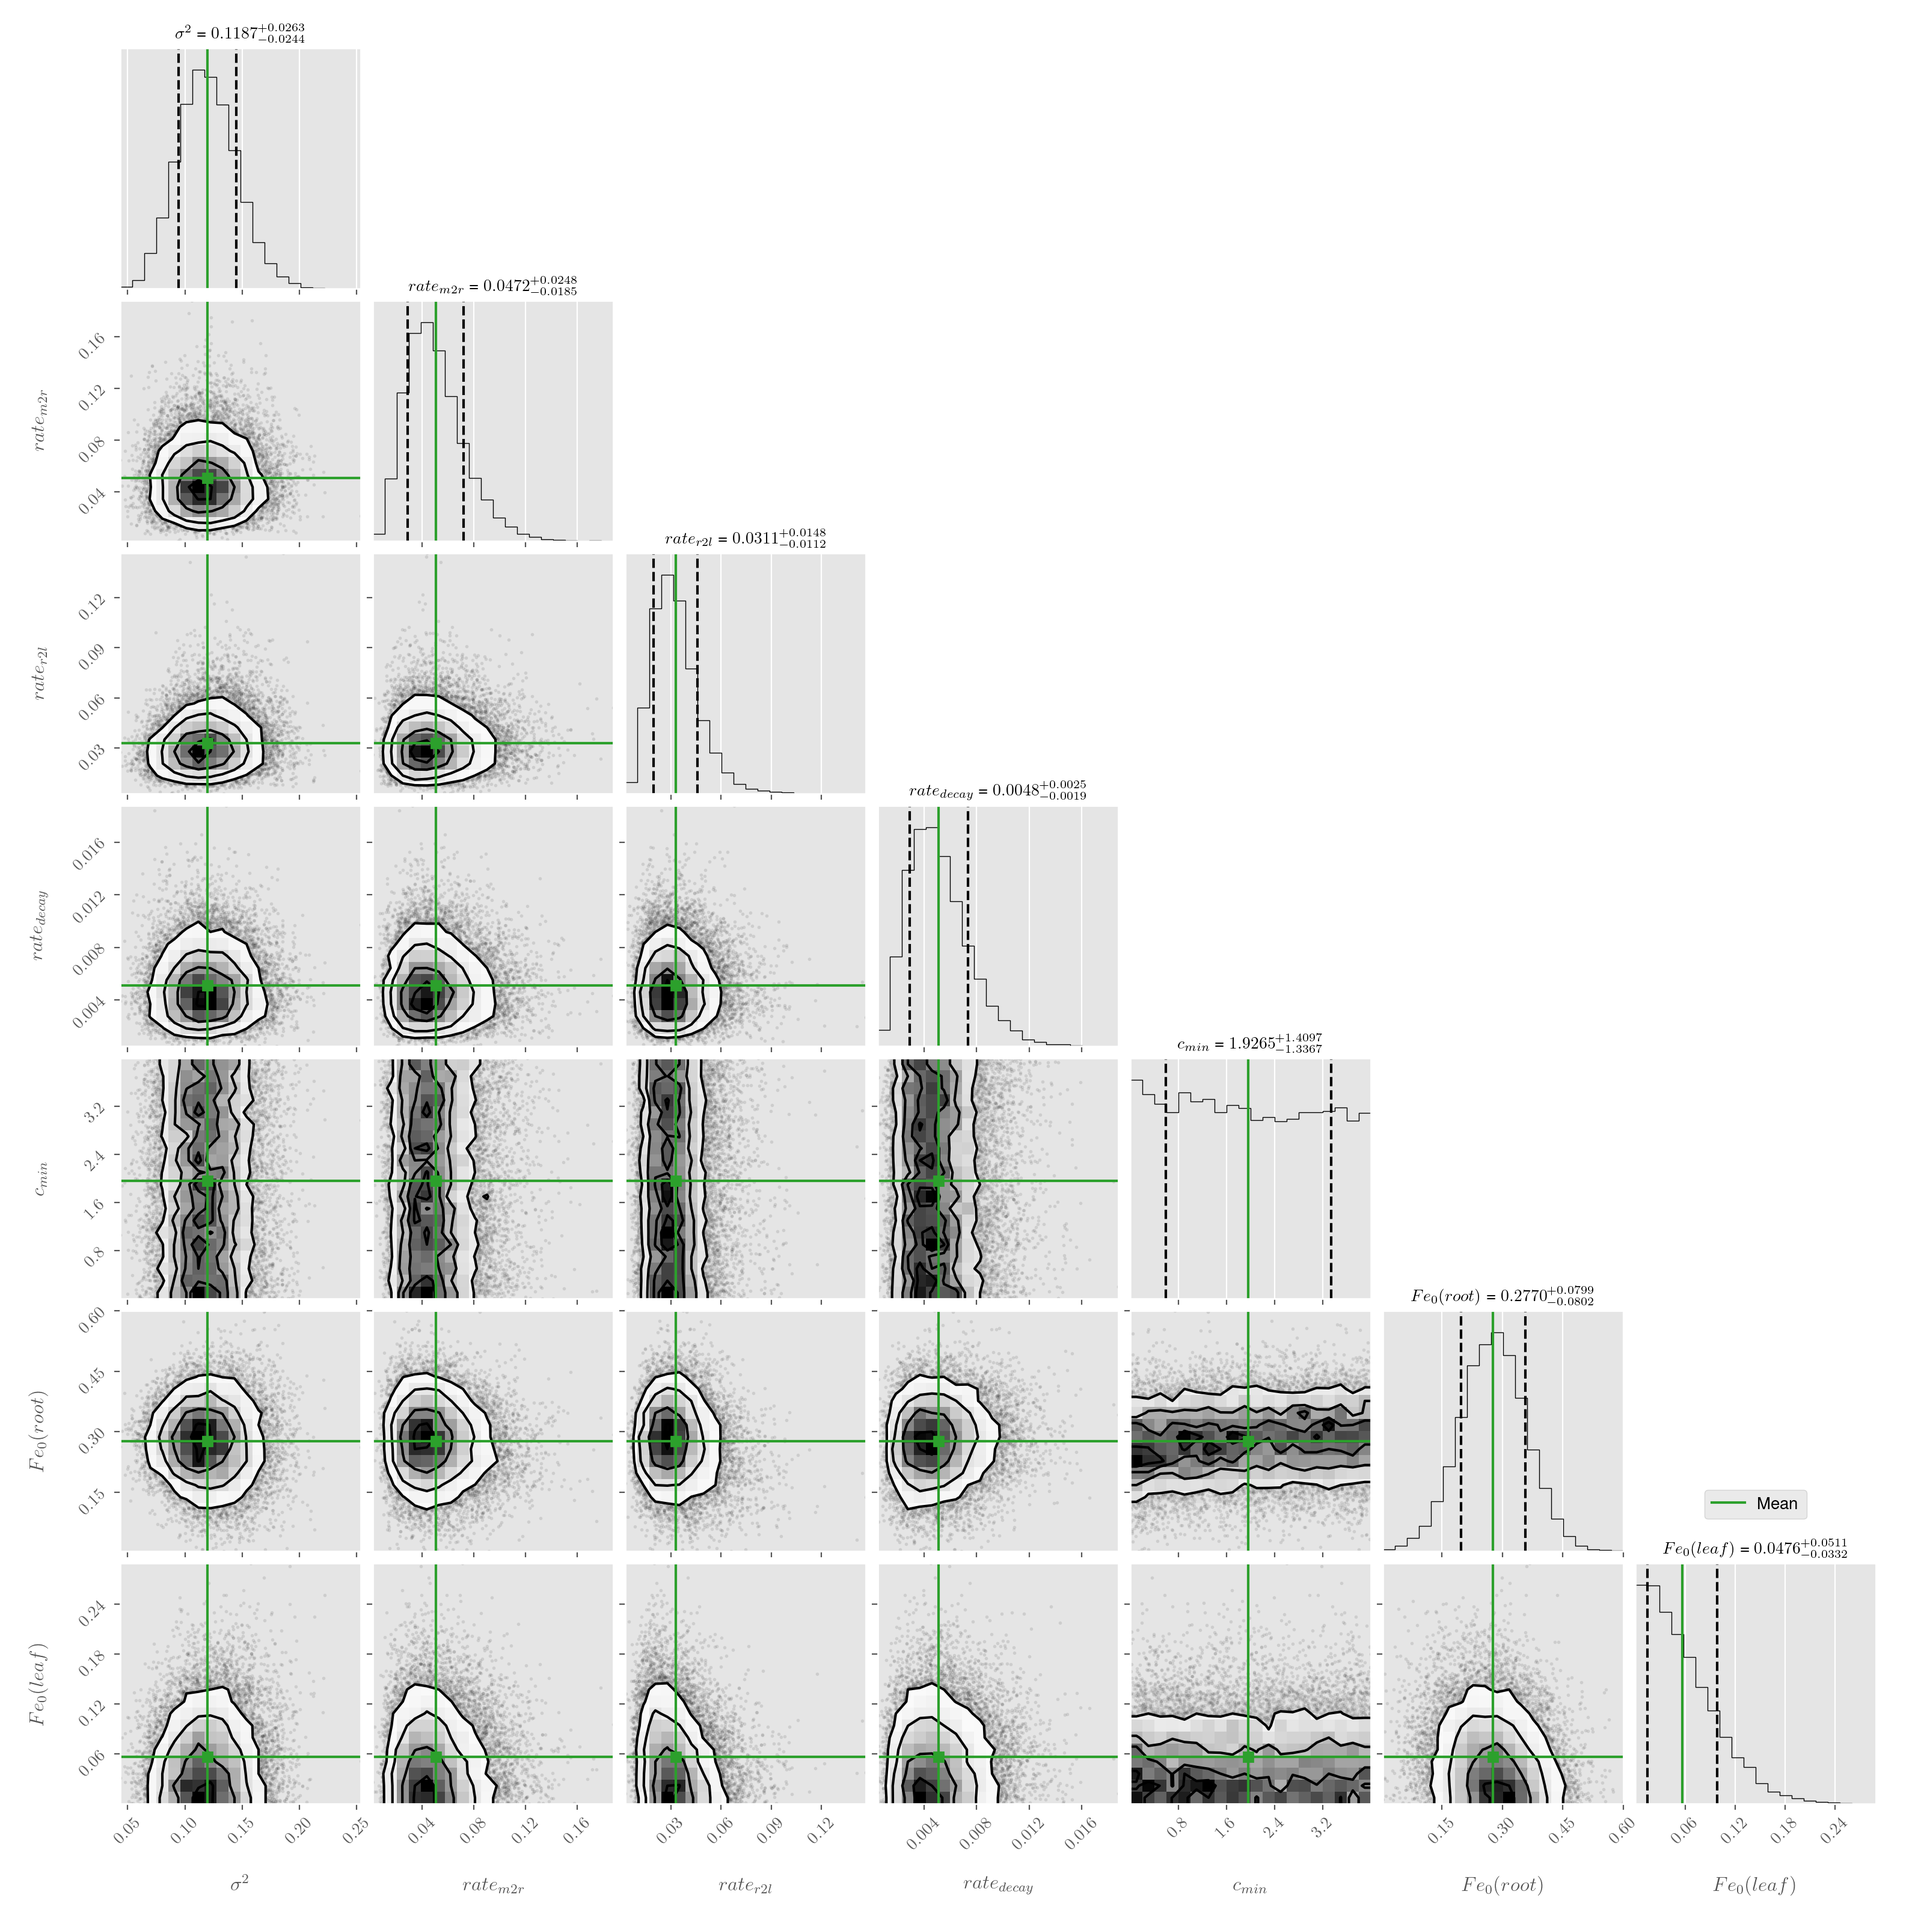
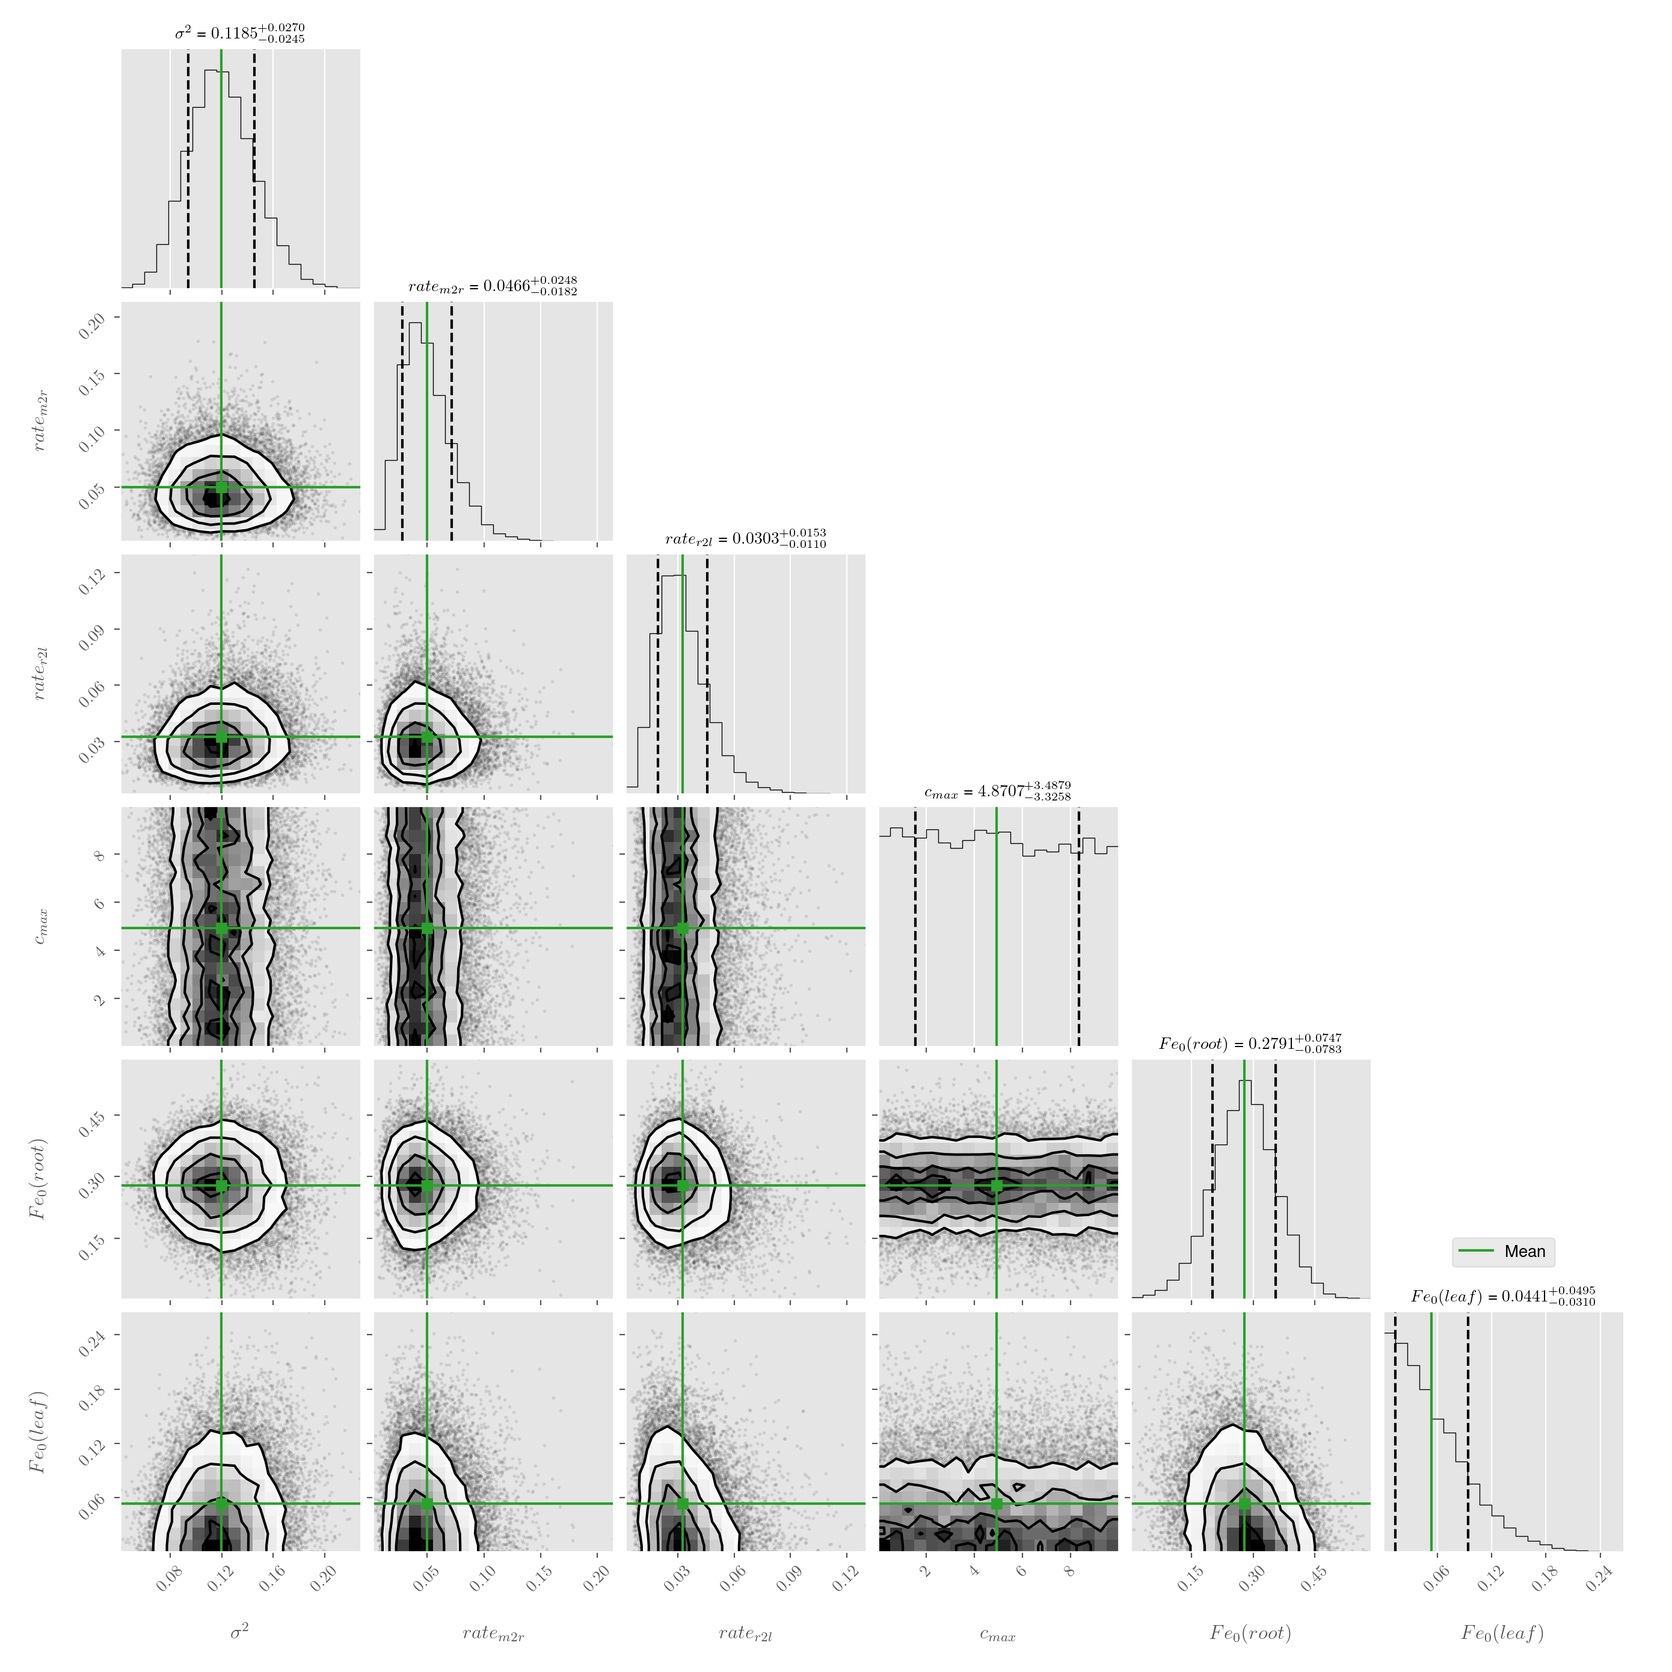
Results for models with c_max and Michaelis constant
c_min is included as Michaelis constant first, incorporated as inhibiting factor in the uptake rate (fe_matrix - c_min)
Then it is included as maximal uptake capacity of roots induced by limited root area for uptake. In that model (c_max - fe_matrix) is used as inhibiting factor.
Both limiting constants are unidentifiable because the capacity is never reached in the experiments. The reamining model to do is without the uptake-limiting factor.

Changed region(s): [[0.0619, 0.0, 0.9899, 0.9899]]

diff --git a/read_MCMC_results.py b/read_MCMC_results.py
@@ -14,35 +14,54 @@ def ode_iron_leaf_root(x, t, params):
     # the models takes as an input:
     # rate of uptake from matrix to roots, r_mr
     # rate of uptake from roots to leaves, r_rl
-    # rate of decay, r_d
     # carrying capacity of the root matrix scaled by the matrix weight, c_max
-    r_mr, r_rl, r_d, c_min = params
+    r_mr, r_rl, c_min = params
     # the updated states are passed as x
     fe_root, fe_leaf = x
     # get the values of dry weight and matrix concentration from the approximating functions
-    dr_w = dry_weight(t)
+    dr_w = dry_weight(t)/1000 # dry weight should be in kg too!
     fe_in_m = matrix_content(t)
+    # rate of decay in roots and leaves corresponds to the rate of their growth:
+    r_dec_r = rate_decay_r(t)/1000 # increase in weight of roots in kg
+    r_dec_l = rate_decay_l(t)/1000 # increase in weight of leafs in kg
     # matrix_weight = 10 #matrix weight in gramms to bring everything to the same measurement units
-    dxdt = [(r_mr*dr_w*fe_in_m)/(c_min + fe_in_m) - r_rl * fe_root - r_d * fe_root, \
-            r_rl * fe_root - r_d * fe_leaf]
+    dxdt = [(r_mr*dr_w*fe_in_m)/(c_min - fe_in_m) - r_rl * fe_root - r_dec_r * fe_root, \
+            r_rl * fe_root - r_dec_l * fe_leaf]
     return dxdt
 
-def ode_iron_leaf_root(x, t, params):
-    # the models takes as an input:
-    # rate of uptake from matrix to roots, r_mr
-    # rate of uptake from roots to leaves, r_rl
-    # rate of decay, r_d
-    # carrying capacity of the root matrix scaled by the matrix weight, c_max
-    r_mr, r_rl, r_d, c_min = params
-    # the updated states are passed as x
-    fe_root, fe_leaf = x
-    # get the values of dry weight and matrix concentration from the approximating functions
-    dr_w = dry_weight(t)
-    fe_in_m = matrix_content(t)
-    # matrix_weight = 10 #matrix weight in gramms to bring everything to the same measurement units
-    dxdt = [(r_mr*dr_w*fe_in_m)/(c_min + fe_in_m) - r_rl * fe_root - r_d * fe_root, \
-            r_rl * fe_root - r_d * fe_leaf]
-    return dxdt
+# def ode_iron_leaf_root(x, t, params):
+#     # the models takes as an input:
+#     # rate of uptake from matrix to roots, r_mr
+#     # rate of uptake from roots to leaves, r_rl
+#     # rate of decay, r_d
+#     # carrying capacity of the root matrix scaled by the matrix weight, c_max
+#     r_mr, r_rl, r_d, c_min = params
+#     # the updated states are passed as x
+#     fe_root, fe_leaf = x
+#     # get the values of dry weight and matrix concentration from the approximating functions
+#     dr_w = dry_weight(t)
+#     fe_in_m = matrix_content(t)
+#     # matrix_weight = 10 #matrix weight in gramms to bring everything to the same measurement units
+#     dxdt = [(r_mr*dr_w*fe_in_m)/(c_min + fe_in_m) - r_rl * fe_root - r_d * fe_root, \
+#             r_rl * fe_root - r_d * fe_leaf]
+#     return dxdt
+#
+# def ode_iron_leaf_root(x, t, params):
+#     # the models takes as an input:
+#     # rate of uptake from matrix to roots, r_mr
+#     # rate of uptake from roots to leaves, r_rl
+#     # rate of decay, r_d
+#     # carrying capacity of the root matrix scaled by the matrix weight, c_max
+#     r_mr, r_rl, r_d, c_min = params
+#     # the updated states are passed as x
+#     fe_root, fe_leaf = x
+#     # get the values of dry weight and matrix concentration from the approximating functions
+#     dr_w = dry_weight(t)
+#     fe_in_m = matrix_content(t)
+#     # matrix_weight = 10 #matrix weight in gramms to bring everything to the same measurement units
+#     dxdt = [(r_mr*dr_w*fe_in_m)/(c_min + fe_in_m) - r_rl * fe_root - r_d * fe_root, \
+#             r_rl * fe_root - r_d * fe_leaf]
+#     return dxdt
 
 # Main
 if __name__ == '__main__':
@@ -72,7 +91,10 @@ if __name__ == '__main__':
     # dry weight and cobtent in perlite are averaged across replicates
     # can also try running the model for each dw series as an alternative
     df_matrix = df_matrix.groupby(['Day']).mean()
-    df_dw = df_dw.loc[(df_fe['Part'] == 'R'), :].groupby(['Day']).mean()
+    df_dw_r = df_dw.loc[(df_fe['Part'] == 'R'), :].groupby(['Day']).mean()
+    df_dw_r_diff = df_dw_r.diff() / 2  # beacuse the increase happens over two day time increment
+    df_dw_l = df_dw.loc[(df_fe['Part'] == 'L'), :].groupby(['Day']).mean()
+    df_dw_l_diff = df_dw_l.diff() / 2  # beacuse the increase happens over two day time increment
     ###################################################################################################################
     # Analysis 1: extract all MCMC outputs for individual experiments and compare posteriors
     # create measurement vectors and input vectors to be used in the model
@@ -80,8 +102,8 @@ if __name__ == '__main__':
     Parts = np.flip(df_fe.Part.unique())
     # Extract measurements for one experiment and fit a model to it
     # labels = ["$\sigma^2$", "$rate_{m2r}$", "$rate_{r2l}$", "$rate_{decay}$", "$c_{max}$", '$w_{matrix}$']
-    labels = ["$\sigma^2$", "$rate_{m2r}$", "$rate_{r2l}$", "$rate_{decay}$", "$c_{min}$", "$Fe_{0}(root)$", "$Fe_{0}(leaf)$"]
-    labels_simple = ['$\sigma^2$','$r_m2r$','$r_r2l$','$r_d$','$c_{min}$','Fe_{0}(R)','Fe_{0}(L)']
+    labels = ["$\sigma^2$", "$rate_{m2r}$", "$rate_{r2l}$", "$c_{max}$", "$Fe_{0}(root)$", "$Fe_{0}(leaf)$"]
+    labels_simple = ['$\sigma^2$','$r_m2r$','$r_r2l$', '$c_{max}$','Fe_{0}(R)','Fe_{0}(L)']
     posteriors = dict.fromkeys(labels_simple)
     for iExperiment in range(nExperiments):
         Experiment = df_fe.columns[iExperiment]
@@ -95,8 +117,12 @@ if __name__ == '__main__':
                 list_y.append(y)
             y_fe[Rep] = np.stack(tuple(list_y))
         # create an interpolator for the dry weight and iron content in the matrix
-        dry_weight = sp.interpolate.interp1d(SamplingIndeces, df_dw.iloc[:, iExperiment].values,  fill_value='extrapolate')
+        dry_weight = sp.interpolate.interp1d(SamplingIndeces, df_dw_r.iloc[:, iExperiment].values,  fill_value='extrapolate')
         matrix_content = sp.interpolate.interp1d(SamplingIndeces, df_matrix.iloc[:, iExperiment].values,  fill_value='extrapolate')
+        rate_decay_r = sp.interpolate.interp1d(SamplingIndeces[1:], df_dw_r_diff.iloc[1:, iExperiment].values,
+                                               fill_value='extrapolate')
+        rate_decay_l = sp.interpolate.interp1d(SamplingIndeces[1:], df_dw_l_diff.iloc[1:, iExperiment].values,
+                                               fill_value='extrapolate')
         ###################################################################################################################
         fileName = "../IronMCMCwalkers/MCMC_iron_experiment"+str(iExperiment)+".h5"
         sampler = emcee.backends.HDFBackend(fileName)
@@ -142,9 +168,9 @@ if __name__ == '__main__':
         y_mean = odeint(ode_iron_leaf_root,  mean_empirical[-2:], times, args=(mean_empirical[1:-2],))
         for ind in inds:
             sample = flat_samples[ind]
-            y_mcmc = odeint(ode_iron_leaf_root, sample[-2:], times, args=(sample[1:-2],))
-            for iPart in range(len(Parts)):
-                axes.flatten()[iPart].plot(times, y_mcmc[:, iPart],color='#1f77b4', alpha=0.1)
+            # y_mcmc = odeint(ode_iron_leaf_root, sample[-2:], times, args=(sample[1:-2],))
+            # for iPart in range(len(Parts)):
+            #     axes.flatten()[iPart].plot(times, y_mcmc[:, iPart],color='#1f77b4', alpha=0.1)
         for iPart in range(len(Parts)):
             axes.flatten()[iPart].plot(times, y_mean[:, iPart], color='#ff7f0e', label="MCMC mean")
             for _, Rep in enumerate(Replicates):

diff --git a/MCMC_iron.py b/MCMC_iron.py
@@ -34,19 +34,19 @@ def log_posterior(theta, times):
 
 def log_prior(theta):
     # no matrix weight
-    sigma2, r_mr, r_rl, r_d, c_min, *iron_0 = theta
+    sigma2, r_mr, r_rl, c_min, *iron_0 = theta
     # everything that is defined in the conditions after the first one corresponds to uniform priors
-    if all(c >= 0 for c in theta) and (0 < c_min < 4):
+    if all(c >= 0 for c in theta) and (0 < c_min < 10):
         a_r1, b_r1 = 5, .01
         a_r2, b_r2 = 5, .001
         a_r3, b_r3 = 5, .01
         a_sig, b_sig = 10, .05
         p_uptake_r = sp.stats.gamma.pdf(r_mr, a=a_r1, loc=0, scale=b_r1)
-        p_decay_r = sp.stats.gamma.pdf(r_d, a=a_r2, loc=0, scale=b_r2)
+        # p_decay_r = sp.stats.gamma.pdf(r_d, a=a_r2, loc=0, scale=b_r2)
         p_r2l_r = sp.stats.gamma.pdf(r_rl, a=a_r3, loc=0, scale=b_r3)
         p_sigma2 = sp.stats.gamma.pdf(sigma2, a=a_sig, loc=0, scale=b_sig)
         p_init = sp.stats.multivariate_normal.pdf(iron_0,mean=iron_0_true, cov = [[0.2, 0],[0, 0.1]])
-        lprior = np.log(p_uptake_r*p_decay_r*p_r2l_r*p_sigma2*p_init)
+        lprior = np.log(p_uptake_r*p_r2l_r*p_sigma2*p_init) # *p_decay_r
         return lprior
     # returns a scalart
     return -np.inf
@@ -73,15 +73,17 @@ def ode_iron_leaf_root(x, t, params):
     # rate of uptake from roots to leaves, r_rl
     # rate of decay, r_d
     # carrying capacity of the root matrix scaled by the matrix weight, c_max
-    r_mr, r_rl, r_d, c_min = params
+    r_mr, r_rl, c_min = params
     # the updated states are passed as x
     fe_root, fe_leaf = x
     # get the values of dry weight and matrix concentration from the approximating functions
-    dr_w = dry_weight(t)
+    dr_w = dry_weight(t)/1000 # dry weight should be in kg too!
     fe_in_m = matrix_content(t)
+    r_dec_r = rate_decay_r(t)/1000 # increase in weight of roots in kg
+    r_dec_l = rate_decay_l(t)/1000 # increase in weight of leafs in kg
     # matrix_weight = 10 #matrix weight in gramms to bring everything to the same measurement units
-    dxdt = [(r_mr*dr_w*fe_in_m)/(c_min + fe_in_m) - r_rl * fe_root - r_d * fe_root, \
-            r_rl * fe_root - r_d * fe_leaf]
+    dxdt = [(r_mr*dr_w*fe_in_m)/(c_min - fe_in_m) - r_rl * fe_root - r_dec_r * fe_root, \
+            r_rl * fe_root - r_dec_l * fe_leaf]
     return dxdt
 
 # def ode_iron_leaf_root(x, t, params):
@@ -129,7 +131,10 @@ if __name__ == '__main__':
     # dry weight and cobtent in perlite are averaged across replicates
     # can also try running the model for each dw series as an alternative
     df_matrix = df_matrix.groupby(['Day']).mean()
-    df_dw = df_dw.loc[(df_fe['Part'] == 'R'),:].groupby(['Day']).mean()
+    df_dw_r = df_dw.loc[(df_fe['Part'] == 'R'),:].groupby(['Day']).mean()
+    df_dw_r_diff = df_dw_r.diff()/2  # beacuse the increase happens over two day time increment
+    df_dw_l = df_dw.loc[(df_fe['Part'] == 'L'), :].groupby(['Day']).mean()
+    df_dw_l_diff = df_dw_l.diff()/2  # beacuse the increase happens over two day time increment
     ###################################################################################################################
     # Analysis 1: fit the model to each experiment individually, compare posteriors among the models
     # run EMCMC for sets of walkers sampled around these values
@@ -154,15 +159,17 @@ if __name__ == '__main__':
                 list_y.append(y)
             y_fe[Rep] = np.stack(tuple(list_y))
         # create an interpolator for the dry weight and iron content in the matrix
-        dry_weight = sp.interpolate.interp1d(SamplingIndeces, df_dw.iloc[:,iExperiment].values, fill_value='extrapolate')
+        dry_weight = sp.interpolate.interp1d(SamplingIndeces, df_dw_r.iloc[:,iExperiment].values, fill_value='extrapolate')
         matrix_content = sp.interpolate.interp1d(SamplingIndeces, df_matrix.iloc[:,iExperiment].values,  fill_value='extrapolate')
+        rate_decay_r = sp.interpolate.interp1d(SamplingIndeces[1:], df_dw_r_diff.iloc[1:, iExperiment].values,fill_value='extrapolate')
+        rate_decay_l = sp.interpolate.interp1d(SamplingIndeces[1:], df_dw_l_diff.iloc[1:, iExperiment].values,fill_value='extrapolate')
     ###################################################################################################################
         ###################################################################################################################
         # run EMCMC for sets of walkers sampled around these values
         # test the model: sigma2 + 3 rates + carrying capacity + initial conditions
         sig2 = .01
-        params_0 = [sig2] + [.002, .002, .0001, 0.5] + iron_0_true
-        sigma_vector = np.array([0.001, 0.00001, 0.00001, 0.000001, .01, .01, 0.001])
+        params_0 = [sig2] + [.002, .002, 4.5] + iron_0_true
+        sigma_vector = np.array([0.001, 0.00001, 0.00001, .01, .01, 0.001])
         covar = np.identity(len(params_0)) * sigma_vector  # create the matrix with diagonal elements defined by sigma_vector
         ndim = len(params_0)
         nwalkers = ndim * 2
@@ -208,5 +215,4 @@ if __name__ == '__main__':
         # print("thin: {0}".format(thin))
         # print("flat chain shape: {0}".format(flat_samples.shape))
         # print("flat log prob shape: {0}".format(log_prob_samples.shape))
-    print('Pause here')
 
